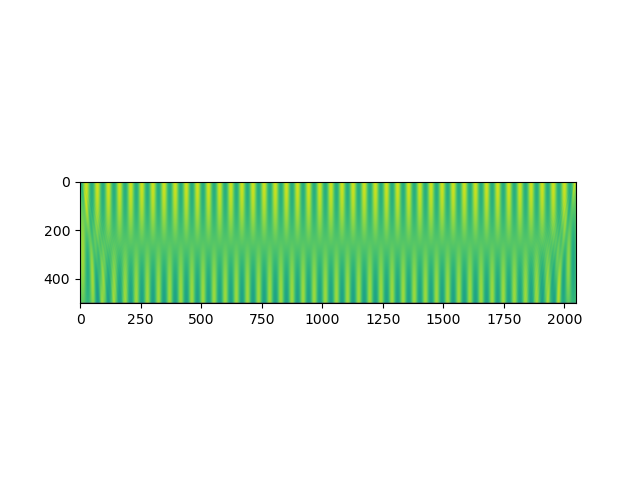
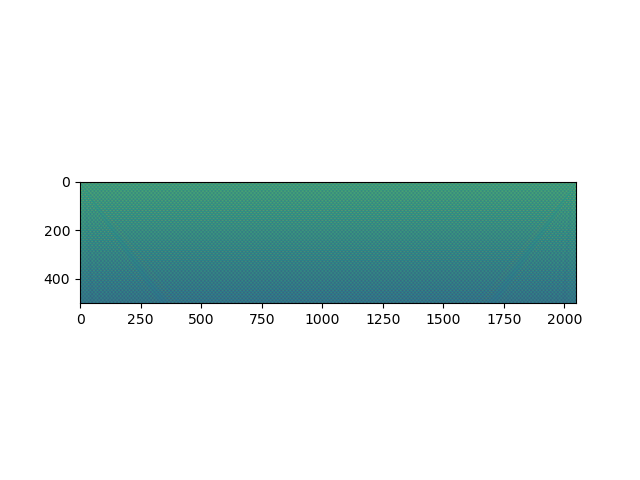
Fitting of Bogoliubov curves; extraction of dispersion for different interaction parameters

Changed region(s): [[0.125, 0.375, 0.9062, 0.6562]]

diff --git a/raul/Bogoliubov.py b/raul/Bogoliubov.py
@@ -1,5 +1,6 @@
 import numpy as np
 from scipy.constants import c, epsilon_0
+from scipy.optimize import curve_fit
 import matplotlib.pyplot as plt
 from NLSE import NLSE
 
@@ -16,10 +17,11 @@ puiss = 1.05
 Isat = 10e4  # saturation intensity in W/m^2
 L = 50e-3
 alpha = 2
-k_p = 2*np.pi/(4e-4) # perturbation k for measuring Bogoliubov dispersion
+k_p = 2*np.pi*2.0e4 # perturbation k for measuring Bogoliubov dispersion
 amp_p = 0.1 #amplitude of perturbation
 
-
+def fit_func(x, a, b, c, freq, phase):
+    return a * x + b*np.cos(2*np.pi*freq * x + phase) + c
 
 
 def main():
@@ -37,7 +39,7 @@ def main():
     )
     simu.delta_z = 0.1e-4
     #np.exp(-(simu.XX**2 + simu.YY**2) / waist**2)*
-    E_0 = ((1 + amp_p*np.sin(2*k_p*simu.XX))).astype(
+    E_0 = (1 + amp_p*np.cos(2*k_p*simu.XX)).astype(
         PRECISION_COMPLEX
     )
     #simu.V = -1e-4 * np.exp(-(simu.XX**2 + simu.YY**2) / waist2**2).astype(
@@ -47,10 +49,12 @@ def main():
     # parameters for callback
     N_samples = 500
     z_samples = np.zeros(N_samples+1) # +1 to account for the 0th step
+    z_samples[0] = 0
     E_samples = np.zeros((N_samples+1, N, N), dtype=np.complex64)
+    E_0_normalized,_ = simu._prepare_output_array(E_0,True) 
+    E_samples[0] = E_0_normalized.get()
     N_steps = int(round(L/simu.delta_z))
     save_every = N_steps//N_samples
-
 
 
     def callback_sample(simu: NLSE, A: np.ndarray, z: float, i: int, E_samples: np.ndarray, z_samples: np.ndarray) -> None:
@@ -64,24 +68,47 @@ def main():
             E (np.ndarray): The array of samples
         """
         if i % save_every == 0:
-            E_samples[i//save_every] = A.get()
-            z_samples[i//save_every] = z
+            E_samples[i//save_every+1] = A.get()
+            z_samples[i//save_every+1] = z
  
     A_plot = simu.out_field(E_0, L, callback=callback_sample, callback_args=(E_samples, z_samples), verbose=True)
     #A_plot = simu.out_field(E_0, L, verbose=True, plot=True, precision="single")
 
+    # make fft of z evolution of the density at the center of the beam
     cuts_1D = abs(E_samples[:,int(simu.NX/2),:])** 2 * 1e-4 * c / 2 * epsilon_0
     center_cut = E_samples[:,int(simu.NX/2),int(simu.NY/2)]
-    center_cut_fft = np.abs(np.fft.fftshift(np.fft.fft(center_cut)))
-    fft_freqs = np.fft.fftshift(np.fft.fftfreq(N_samples+1,save_every))
+    int_center_cut = abs(center_cut)** 2 * 1e-4 * c / 2 * epsilon_0
+    center_cut_fft = np.abs(np.fft.fftshift(np.fft.fft(int_center_cut)))
+    fft_freqs = np.fft.fftshift(np.fft.fftfreq(N_samples+1,save_every*simu.delta_z))
+
+    # plot fft
+    plt.figure()
+    plot_int = 20
+    plt.plot(fft_freqs[int(N_samples/2)-plot_int:int(N_samples/2)+plot_int],
+        center_cut_fft[int(N_samples/2)-plot_int:int(N_samples/2)+plot_int])
+    plt.savefig("img/temporal_fft.png")
+
+    # obtain maximum of fft, excluding DC
+    center_cut_fft_no_DC = center_cut_fft
+    DC_cut_index = 3
+    center_cut_fft_no_DC[int(N_samples/2)-DC_cut_index:int(N_samples/2)+DC_cut_index] = 0
+    freq_index = np.argmax(center_cut_fft_no_DC)
+    print([freq_index])
+    print(fft_freqs[freq_index])
+
+    # fit the z evolution to extract frequency
+    plt.figure()
+    plt.plot(z_samples,int_center_cut)
+
+    popt, pcov = curve_fit(fit_func, z_samples, int_center_cut, p0 = [4,0.5,1.6,-1.*fft_freqs[freq_index],0])
+    plt.plot(z_samples,fit_func(z_samples,*popt))
+    plt.savefig("img/Z_evolution.png")
+
+    print(popt[3])
 
     plt.figure()
     plt.imshow(cuts_1D)
     plt.savefig("img/1Dcut.png")
-
-    plt.figure()
-    plt.plot(center_cut_fft)
-    plt.savefig("img/temporal_fft.png")
 
     plt.figure()
     #save the plot_field

diff --git a/raul/Bogoliubov_data.py b/raul/Bogoliubov_data.py
@@ -1,0 +1,25 @@
+import numpy as np
+from scipy.optimize import curve_fit
+import matplotlib.pyplot as plt
+
+# freq_vector_0: no interaction
+# freq_vector_1: Pot = 1.05W, Isat = 10e4, waist = 2.23e-3, n2 = -1.6e-9
+# freq_vector_2: same as freq_vector_1, but n2 = -6.4e-9
+
+# removed 2*pi in all below
+k_vector = np.asarray([2.5e3,5e3,7.5e3,1e4,1.25e4,1.5e4,1.75e4,2e4,2.25e4,2.5e4])
+freq_vector_0 = np.asarray([9.717770384829846,39.013678510549475,87.75382172699707,
+    156.01536985657765,243.76111172028783,351.0024764555187,477.7541479980286,
+    624.0047328530615,789.7507285018089,975.0024571421822])
+freq_vector_1 = np.asarray([23.097216283229994,55.672442579967615,106.07047115833315,175.07921701710018,
+    263.22883198149424,370.6994576462813,497.5864726230814,643.9356093694312,
+    809.7491323860143,995.047681909993])
+freq_vector_2 = np.asarray([41.18626712974224,88.01493440893303,147.73508834264857,
+    222.55144074649098,314.36595973277537,424.27048266193214,552.7833537578772,
+    700.2800551325072,866.9456458807748,1052.8682124304742])
+
+plt.figure()
+plt.plot(k_vector,freq_vector_0)
+plt.plot(k_vector,freq_vector_1)
+plt.plot(k_vector,freq_vector_2)
+plt.savefig("img/Dispersion.png")
